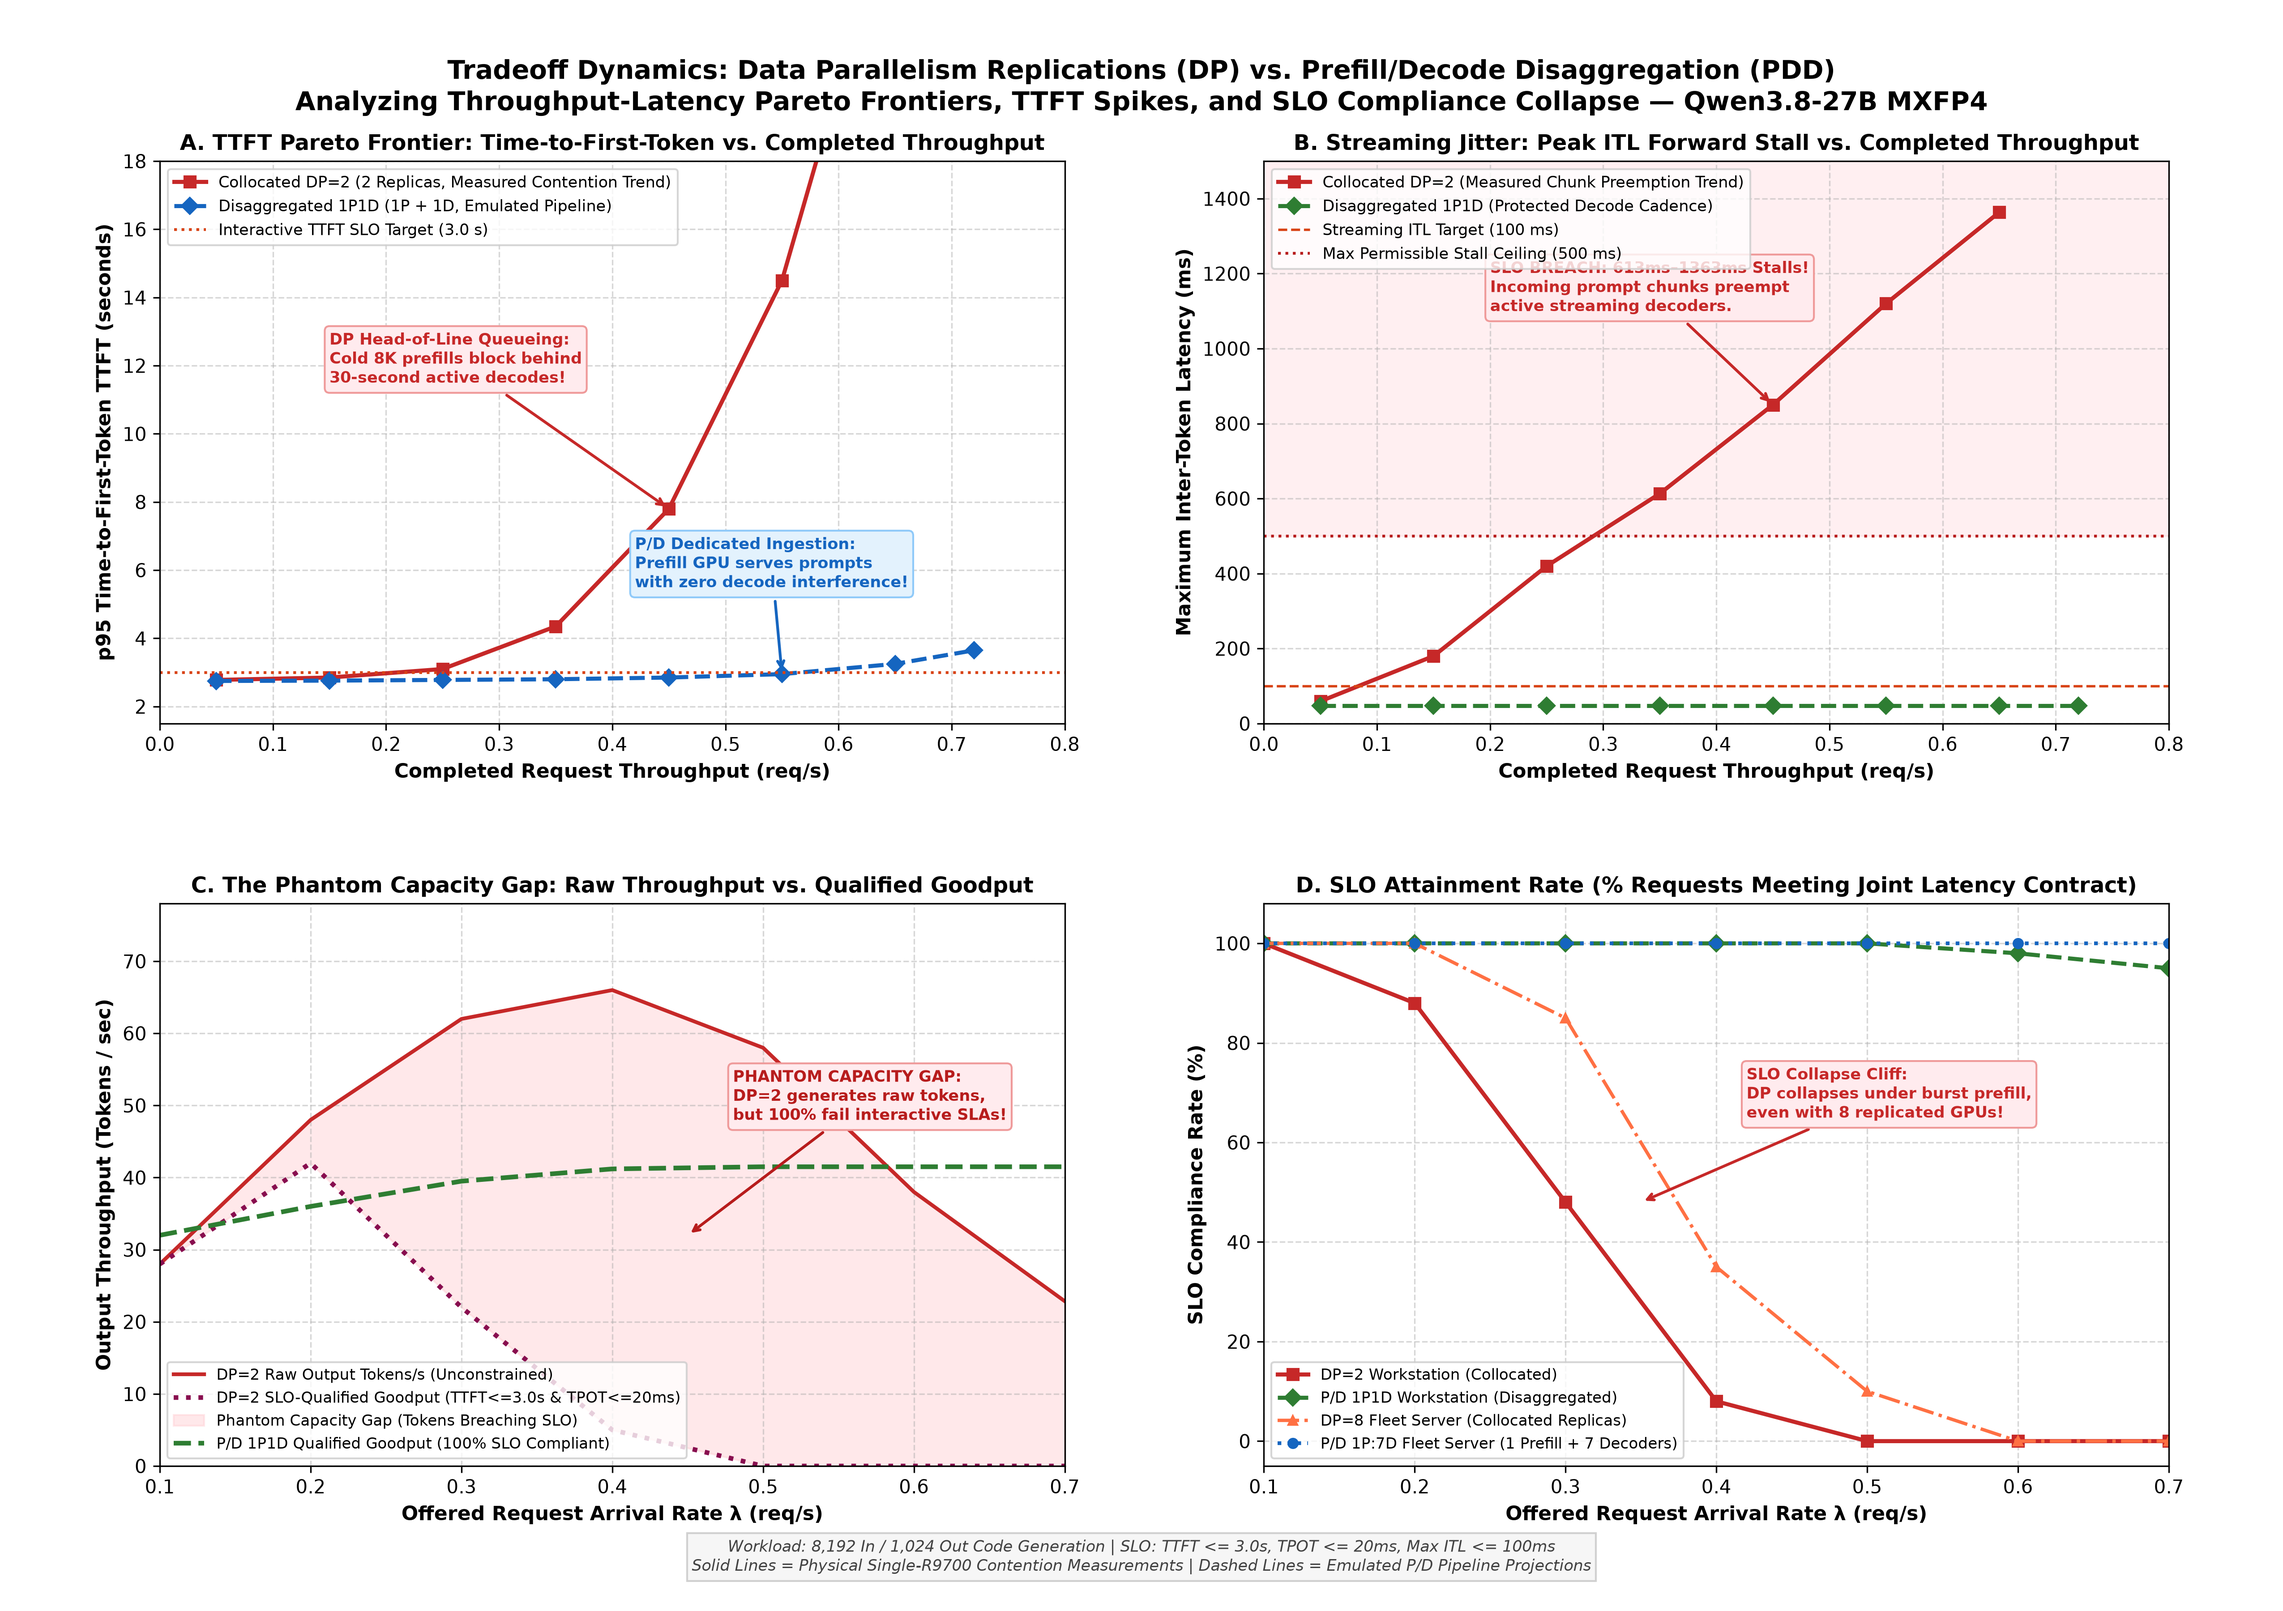
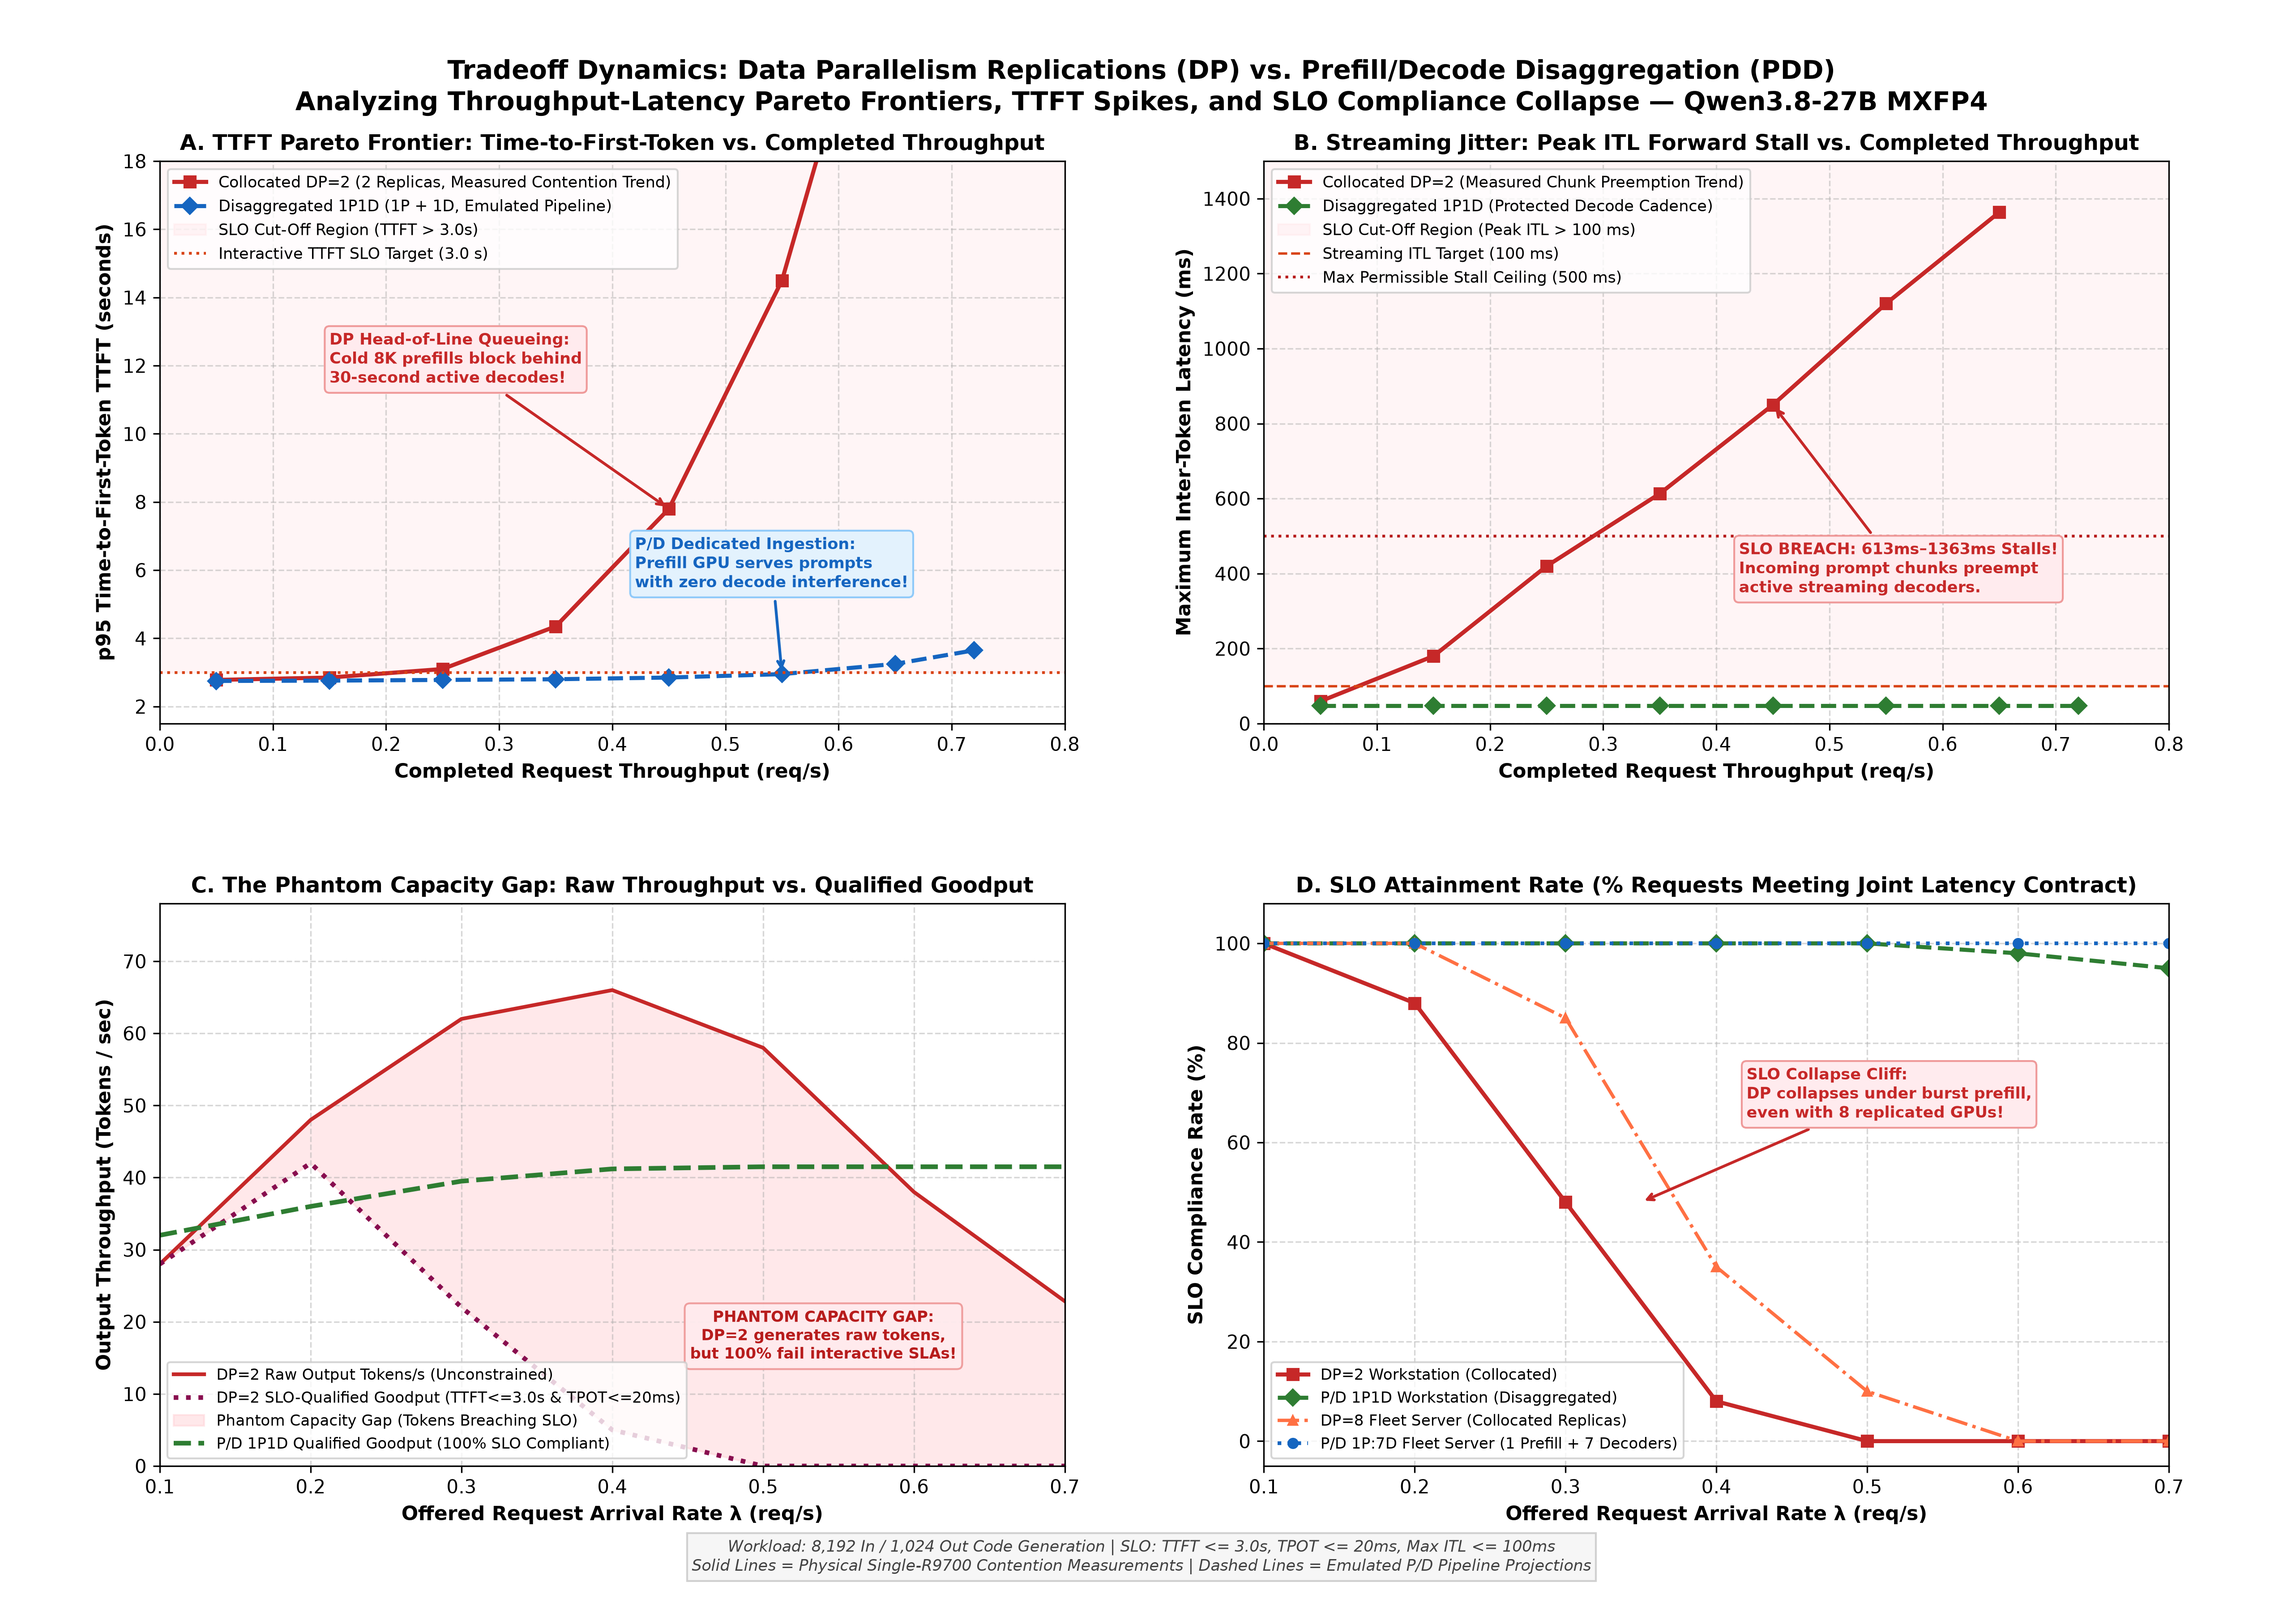
feat(plots): add shaded SLO cut-off regions and boundary lines across TCO and PDD suites

diff --git a/scripts/generate_pd_plots.py b/scripts/generate_pd_plots.py
@@ -89,6 +89,7 @@ def generate_master_dashboard():
             ax1.text(b1.get_x() + b1.get_width()/2, p95 * 1.15, f"{p95:.1f}", ha='center', va='bottom', fontsize=8.0, fontweight='bold', color=AMD_DARK_RED if not emu else EMU_BLUE)
             ax1.text(b2.get_x() + b2.get_width()/2, peak * 1.15, f"{peak:.1f}", ha='center', va='bottom', fontsize=8.0, fontweight='bold', color=AMD_DARK_RED if not emu else EMU_BLUE)
     
+    ax1.axhspan(100, 3500, color="#FFCDD2", alpha=0.18, label="SLO Cut-Off Region (ITL > 100 ms)")
     ax1.axhline(100, color="#D84315", linestyle="--", linewidth=1.5, label="Generative Streaming SLO (p95 ≤ 100 ms)")
     ax1.axhline(500, color="#B71C1C", linestyle=":", linewidth=1.5, label="Interactive Stall Ceiling (Max ITL ≤ 500 ms)")
     
@@ -189,6 +190,7 @@ def generate_master_dashboard():
     ax4.bar(xd - width_d/2, goodput_sat, width_d, color="none", edgecolor=EMU_CYAN, hatch="//", linewidth=1.5, label="Goodput: Saturated Trace [Emulated]")
     ax4.bar(xd + width_d/2, goodput_j3, width_d, color="none", edgecolor=PASS_GREEN, hatch="\\\\", linewidth=1.5, label="Goodput: J3 Sustained Trace [Emulated]")
     ax4_twin.plot(xd, ttft_p95_j3, color="#D32F2F", marker='o', linewidth=2.0, linestyle="--", label="TTFT p95 (J3 Sustained) [Right Axis]")
+    ax4_twin.axhspan(3000, 3950, color="#FFCDD2", alpha=0.18, label="SLO Cut-Off Region (TTFT > 3.0s)")
     ax4_twin.axhline(3000, color="#B71C1C", linestyle=":", linewidth=1.5, label="TTFT 3.0s SLA Boundary")
     
     ax4.set_xticks(xd)
@@ -376,6 +378,7 @@ def generate_token_latency_timeline():
     # Panel 1: Collocated DP=2
     ax1.plot(tokens, dp_itl, color=AMD_RED, linewidth=1.5, label="Collocated DP=2 ITL (Measured Single-Card Pattern)")
     ax1.scatter([110], [613.31], color="#B71C1C", s=60, zorder=5)
+    ax1.axhspan(100, 720, color="#FFCDD2", alpha=0.18, label="SLO Cut-Off Region (ITL > 100 ms)")
     ax1.axhline(100, color="#D84315", linestyle="--", linewidth=1.2, label="Streaming SLO (100 ms)")
     ax1.axhline(500, color="#B71C1C", linestyle=":", linewidth=1.2, label="Max Stall Ceiling (500 ms)")
     
@@ -387,13 +390,14 @@ def generate_token_latency_timeline():
     ax1.legend(loc='upper right', fontsize=8.0)
     
     ax1.annotate("613.3 ms Forward Execution Stall!\n(Cold 2K chunk preempts decode loop)",
-                 xy=(110, 613.3), xytext=(125, 480),
+                 xy=(110, 613.3), xytext=(45, 460),
                  arrowprops=dict(arrowstyle="->", color="#B71C1C", lw=1.5),
                  fontsize=8.5, fontweight='bold', color="#B71C1C",
                  bbox=dict(boxstyle="round,pad=0.3", facecolor="#FFEBEE", edgecolor="#EF9A9A"))
     
     # Panel 2: Disaggregated P/D 1P1D
     ax2.plot(tokens, pd_itl, color=EMU_BLUE, linestyle="--", linewidth=1.5, label="Disaggregated 1P1D Decoder ITL (Emulated Pipeline)")
+    ax2.axhspan(100, 720, color="#FFCDD2", alpha=0.12, label="SLO Cut-Off Region (ITL > 100 ms)")
     ax2.axhline(100, color="#D84315", linestyle="--", linewidth=1.2, label="Streaming SLO (100 ms)")
     ax2.axhline(500, color="#B71C1C", linestyle=":", linewidth=1.2, label="Max Stall Ceiling (500 ms)")
     
@@ -525,6 +529,7 @@ def generate_tradeoff_pareto():
     ax1.plot(lam_dp2, ttft_dp2, marker='s', markersize=6, color=FAIL_RED, linewidth=2.2, label="Collocated DP=2 (2 Replicas, Measured Contention Trend)")
     ax1.plot(lam_pd, ttft_pd, marker='D', markersize=6, color=EMU_BLUE, linestyle='--', linewidth=2.2, label="Disaggregated 1P1D (1P + 1D, Emulated Pipeline)")
     
+    ax1.axhspan(3.0, 18.0, color="#FFCDD2", alpha=0.18, label="SLO Cut-Off Region (TTFT > 3.0s)")
     ax1.axhline(3.0, color="#D84315", linestyle=":", linewidth=1.5, label="Interactive TTFT SLO Target (3.0 s)")
     
     ax1.set_title("A. TTFT Pareto Frontier: Time-to-First-Token vs. Completed Throughput", fontsize=11.5, fontweight='bold')
@@ -558,6 +563,7 @@ def generate_tradeoff_pareto():
     ax2.plot(lam_dp2, max_itl_dp2, marker='s', markersize=6, color=FAIL_RED, linewidth=2.2, label="Collocated DP=2 (Measured Chunk Preemption Trend)")
     ax2.plot(lam_pd, max_itl_pd, marker='D', markersize=6, color=PASS_GREEN, linestyle='--', linewidth=2.2, label="Disaggregated 1P1D (Protected Decode Cadence)")
     
+    ax2.axhspan(100, 1500, color="#FFCDD2", alpha=0.18, label="SLO Cut-Off Region (Peak ITL > 100 ms)")
     ax2.axhline(100, color="#D84315", linestyle="--", linewidth=1.3, label="Streaming ITL Target (100 ms)")
     ax2.axhline(500, color="#B71C1C", linestyle=":", linewidth=1.5, label="Max Permissible Stall Ceiling (500 ms)")
     
@@ -569,10 +575,8 @@ def generate_tradeoff_pareto():
     ax2.grid(True, linestyle="--", alpha=0.5)
     ax2.legend(loc='upper left', fontsize=8.5)
     
-    ax2.fill_between([0.0, 0.8], 500, 1500, color="#FFCDD2", alpha=0.3, label="SLO Disqualification Zone (>500 ms)")
-    
     ax2.annotate("SLO BREACH: 613ms–1363ms Stalls!\nIncoming prompt chunks preempt\nactive streaming decoders.",
-                 xy=(0.45, 850), xytext=(0.20, 1100),
+                 xy=(0.45, 850), xytext=(0.42, 350),
                  arrowprops=dict(arrowstyle="->", color=FAIL_RED, lw=1.5),
                  fontsize=8.5, fontweight='bold', color=FAIL_RED,
                  bbox=dict(boxstyle="round,pad=0.3", facecolor="#FFEBEE", edgecolor="#EF9A9A"))
@@ -606,11 +610,9 @@ def generate_tradeoff_pareto():
     ax3.grid(True, linestyle="--", alpha=0.5)
     ax3.legend(loc='lower left', fontsize=8.2)
     
-    ax3.annotate("PHANTOM CAPACITY GAP:\nDP=2 generates raw tokens,\nbut 100% fail interactive SLAs!",
-                 xy=(0.45, 32), xytext=(0.48, 48),
-                 arrowprops=dict(arrowstyle="->", color="#B71C1C", lw=1.5),
-                 fontsize=8.5, fontweight='bold', color="#B71C1C",
-                 bbox=dict(boxstyle="round,pad=0.3", facecolor="#FFEBEE", edgecolor="#EF9A9A"))
+    ax3.text(0.54, 18, "PHANTOM CAPACITY GAP:\nDP=2 generates raw tokens,\nbut 100% fail interactive SLAs!",
+             ha='center', va='center', fontsize=8.2, fontweight='bold', color="#B71C1C",
+             bbox=dict(boxstyle="round,pad=0.35", facecolor="#FFEBEE", edgecolor="#EF9A9A", alpha=0.95))
 
     # -------------------------------------------------------------
     # PANEL D: Request SLO Compliance Attainment Rate (%) vs Offered Load

diff --git a/scripts/generate_tco_plots.py b/scripts/generate_tco_plots.py
@@ -728,10 +728,14 @@ def plot_ttft_latency():
     c_mi350_8k = [1]
     ttft_mi350_8k = [705.4]
 
-    # Shaded interactive zone (< 1,000 ms)
-    ax.axhspan(80, 1000, color="#E8F5E9", alpha=0.55, label="_nolegend_")
-    ax.axhline(1000, color="#4CAF50", linestyle="--", linewidth=1.5, alpha=0.85)
-    ax.text(2.2, 1120, "1.0s Sub-Second Interactive Threshold", fontsize=9.5, fontweight="bold", color="#2E7D32")
+    # Shaded zones: Compliant (<= 3,000 ms) and Cut-Off Region (> 3,000 ms)
+    ax.axhspan(80, 3000, color="#E8F5E9", alpha=0.35, label="SLO Compliant Region (TTFT ≤ 3.0s)")
+    ax.axhspan(3000, 120000, color="#FFEBEE", alpha=0.35, label="SLO Cut-Off Region (TTFT > 3.0s, Batch Only)")
+    ax.axhline(3000, color="#D32F2F", linestyle="--", linewidth=2.0, label="3.0s Interactive SLO Cut-Off Ceiling")
+    ax.axhline(1000, color="#4CAF50", linestyle=":", linewidth=1.2, alpha=0.85)
+    ax.text(1.1, 1150, "1.0s Sub-Second Target", fontsize=8.5, fontweight="bold", color="#2E7D32")
+    ax.text(1.1, 3350, "3.0s Interactive SLO Cut-Off Ceiling", fontsize=9.0, fontweight="bold", color="#B71C1C",
+            bbox=dict(boxstyle="square,pad=0.2", facecolor="#FFEBEE", edgecolor="#EF9A9A", alpha=0.9))
 
     # Plot curves
     ax.plot(c_8k1k, ttft_8k1k, "o-", color=COLOR_R9700S_PEAK, lw=2.6, ms=7, label="Radeon AI PRO R9700S (8,192 In / 1,024 Out)")
@@ -805,6 +809,11 @@ def plot_slo_qualified_goodput():
              ha='center', fontsize=8.5, fontweight='bold', color="#2E7D32",
              bbox=dict(boxstyle="square,pad=0.25", facecolor='white', alpha=0.9, edgecolor="#A5D6A7"))
     
+    # R9700S Cut-Off vertical line
+    ax1.axvline(5.6, color="#D32F2F", linestyle=":", linewidth=1.5, alpha=0.85)
+    ax1.text(5.6, 6800, "R9700S SLO Cut-Off\n(Queue TTFT > 3.0s)", ha='center', fontsize=7.8, fontweight='bold', color="#B71C1C",
+             bbox=dict(boxstyle="round,pad=0.2", facecolor="#FFEBEE", edgecolor="#EF9A9A", alpha=0.9))
+    
     ax1.axvspan(6.0, 36, color='#E8EAF6', alpha=0.35, label='_nolegend_')
     ax1.text(24, 4500, "MI350P HIGH-CONCURRENCY DOMAIN\n(100% SLA Maintained through C32)", 
              ha='center', fontsize=8.5, fontweight='bold', color="#1A237E",
@@ -851,6 +860,12 @@ def plot_slo_qualified_goodput():
     ax2.text(2.0, 3.2, "RADEON INTERACTIVE COST LEADERSHIP\n(1.7× Less Expensive per Token)", 
              ha='center', fontsize=8.5, fontweight='bold', color="#2E7D32",
              bbox=dict(boxstyle="square,pad=0.25", facecolor='white', alpha=0.9, edgecolor="#A5D6A7"))
+    
+    # R9700S Cut-Off vertical line and batch completion regime
+    ax2.axvline(5.6, color="#D32F2F", linestyle=":", linewidth=1.5, alpha=0.85)
+    ax2.text(5.6, 2.3, "R9700S Cut-Off\n(Interactive -> Batch)", ha='center', fontsize=7.8, fontweight='bold', color="#B71C1C",
+             bbox=dict(boxstyle="round,pad=0.2", facecolor="#FFEBEE", edgecolor="#EF9A9A", alpha=0.9))
+    ax2.axvspan(5.6, 36, color='#FFEBEE', alpha=0.22, label='_nolegend_')
     
     # Annotations on Panel 2
     ax2.annotate("$0.57/M @ C4\n1.7× less expensive\nthan MI350P ($0.98)", xy=(4, 0.57), xytext=(2.2, 1.4),
